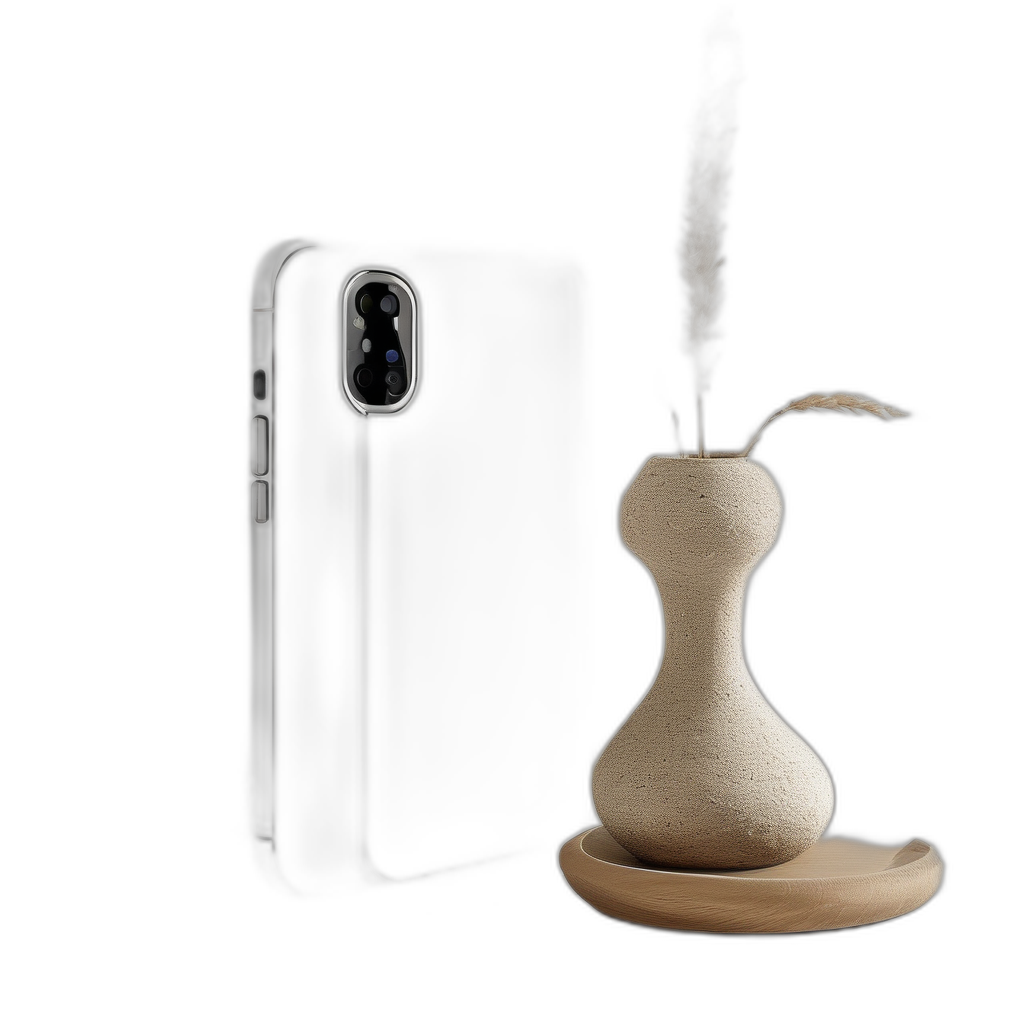
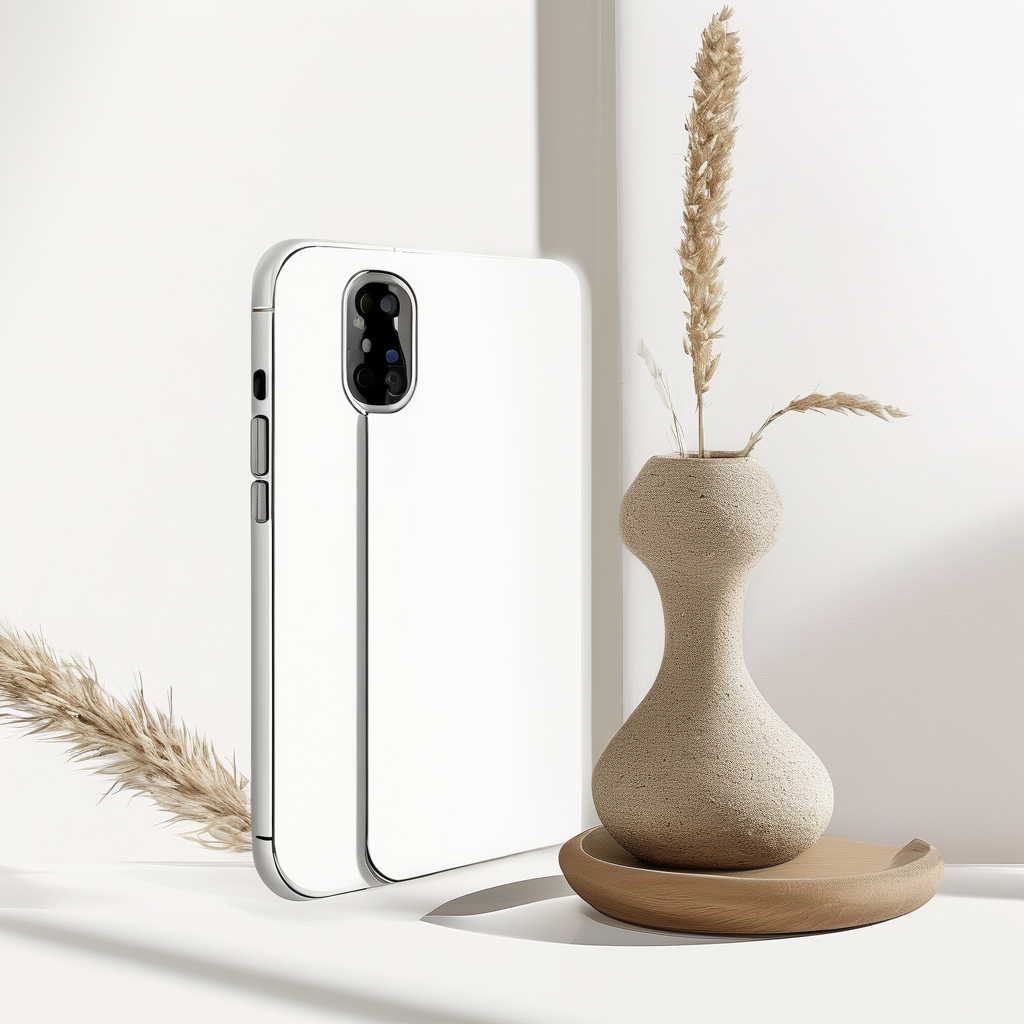
fix: 恢复白底商品图，用底图二次覆盖替代前景遮罩
- tshirt/phonecase/totebag 恢复原始白底 PNG
- 新增 whiteBackground 配置项，标记白底商品
- 渲染逻辑：设计图(multiply)画完后再画一次底图，白色区域自然盖住超出 zone 的部分
- 去掉白底商品的 mockupFg（前景遮罩对白底图无效）

diff --git a/src/components/studio/ProductPreview.tsx b/src/components/studio/ProductPreview.tsx
@@ -338,11 +338,12 @@ export default function ProductPreview({
       ctx.drawImage(baseImg, 0, 0, width, height);
 
       const afterDesign = () => {
-        // Layer 3: 前景遮罩（把手、边框等盖住设计图）
-        // 注意：直接 drawImage 是 source-over，透明像素不会擦除下面的内容。
-        // 正确做法：用 offscreen canvas + destination-in 把设计图裁切到可印刷区域，
-        // 然后把手像素（不透明）自然覆盖在设计图上面。
-        if (config.mockupFg) {
+        if (config.whiteBackground) {
+          // 白底商品图：底图再画一次，白色区域盖住设计图超出 zone 的部分
+          // （source-over 模式下，白底图的白色不透明像素自然盖住下面的内容）
+          ctx.drawImage(baseImg, 0, 0, width, height);
+          drawZoneOverlays(ctx, width, height);
+        } else if (config.mockupFg) {
           const fgImg = new Image();
           fgImg.crossOrigin = 'anonymous';
           fgImg.src = config.mockupFg;
@@ -452,8 +453,11 @@ export default function ProductPreview({
           }
         }
 
-        // 3. 前景遮罩
-        if (config.mockupFg) {
+        // 3. 前景层
+        if (config.whiteBackground) {
+          // 白底商品：底图再画一次盖住超出 zone 的设计图
+          ctx.drawImage(baseImg, 0, 0, width, height);
+        } else if (config.mockupFg) {
           try {
             const fgImg = await loadImage(config.mockupFg);
             ctx.drawImage(fgImg, 0, 0, width, height);

diff --git a/src/lib/totem-mapping.ts b/src/lib/totem-mapping.ts
@@ -61,6 +61,8 @@ export interface ProductConfig {
   mockupFg?: string;    // 前景遮罩（不可印刷区域，其余透明）
   // 设计图混合模式：'normal' | 'multiply'（模拟印刷效果）
   blendMode?: 'normal' | 'multiply';
+  /** 白底商品图：设计图用 multiply 融入，底图再画一次盖住超出区域 */
+  whiteBackground?: boolean;
   zones: PlacementZone[];
 }
 
@@ -74,8 +76,8 @@ export const PRODUCT_CONFIGS: Record<ProductType, ProductConfig> = {
     type: 'tshirt',
     label: { zh: 'T恤', en: 'T-Shirt' },
     mockupBase: '/mockups/tshirt.png',
-    mockupFg: '/mockups/tshirt-fg.png',
-    blendMode: 'normal',
+    blendMode: 'multiply',
+    whiteBackground: true,
     zones: [
       {
         id: 'chest',
@@ -134,8 +136,8 @@ export const PRODUCT_CONFIGS: Record<ProductType, ProductConfig> = {
     type: 'phonecase',
     label: { zh: '手机壳', en: 'Phone Case' },
     mockupBase: '/mockups/phonecase.png',
-    mockupFg: '/mockups/phonecase-fg.png',
-    blendMode: 'normal',
+    blendMode: 'multiply',
+    whiteBackground: true,
     zones: [
       {
         id: 'center',
@@ -156,8 +158,8 @@ export const PRODUCT_CONFIGS: Record<ProductType, ProductConfig> = {
     type: 'totebag',
     label: { zh: '帆布包', en: 'Tote Bag' },
     mockupBase: '/mockups/totebag.png',
-    mockupFg: '/mockups/totebag-fg.png',
-    blendMode: 'normal',
+    blendMode: 'multiply',
+    whiteBackground: true,
     zones: [
       {
         id: 'center',
